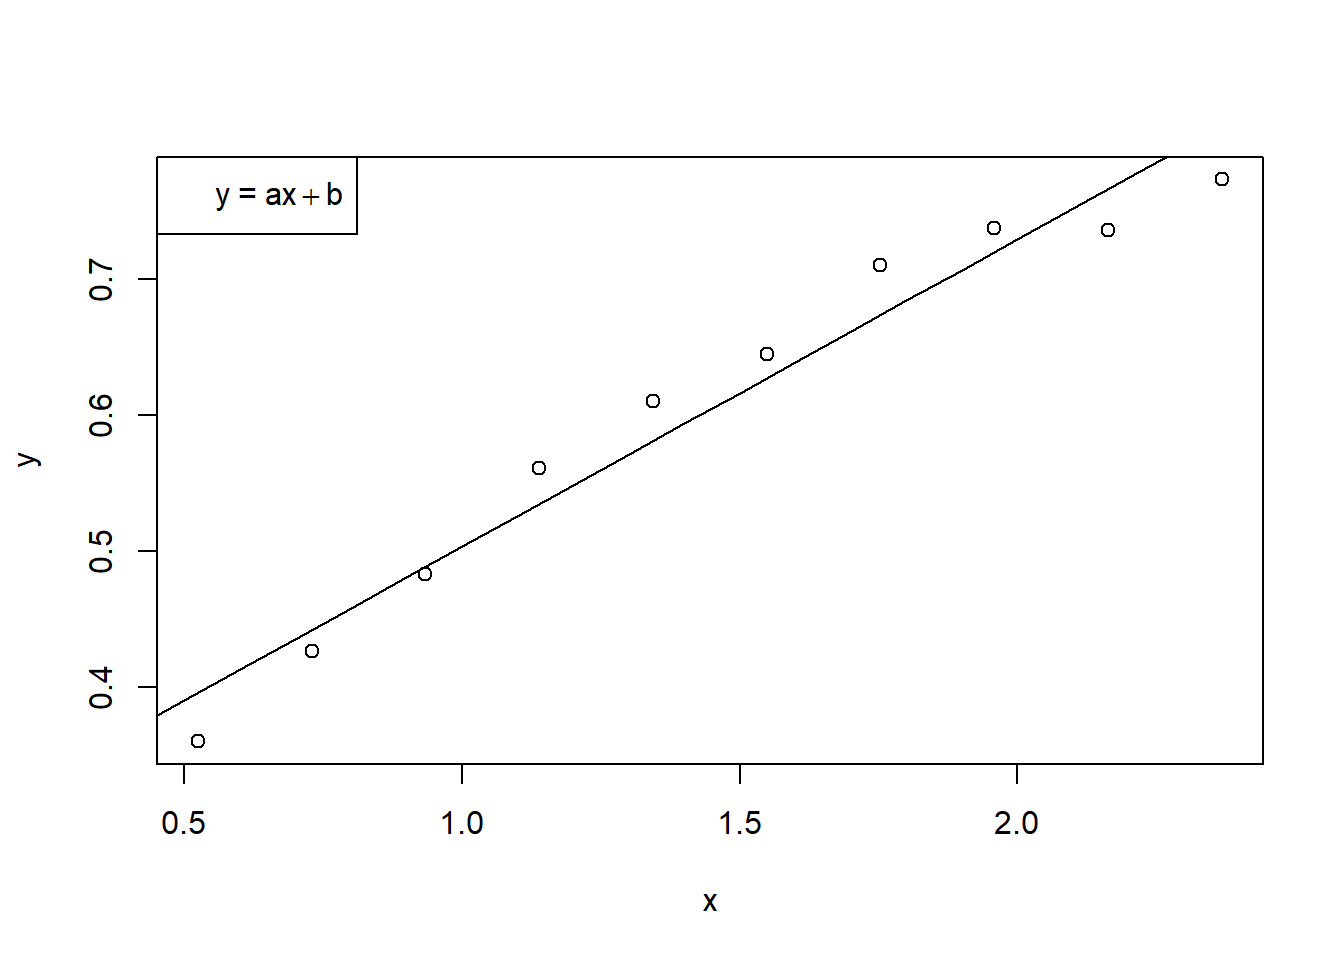
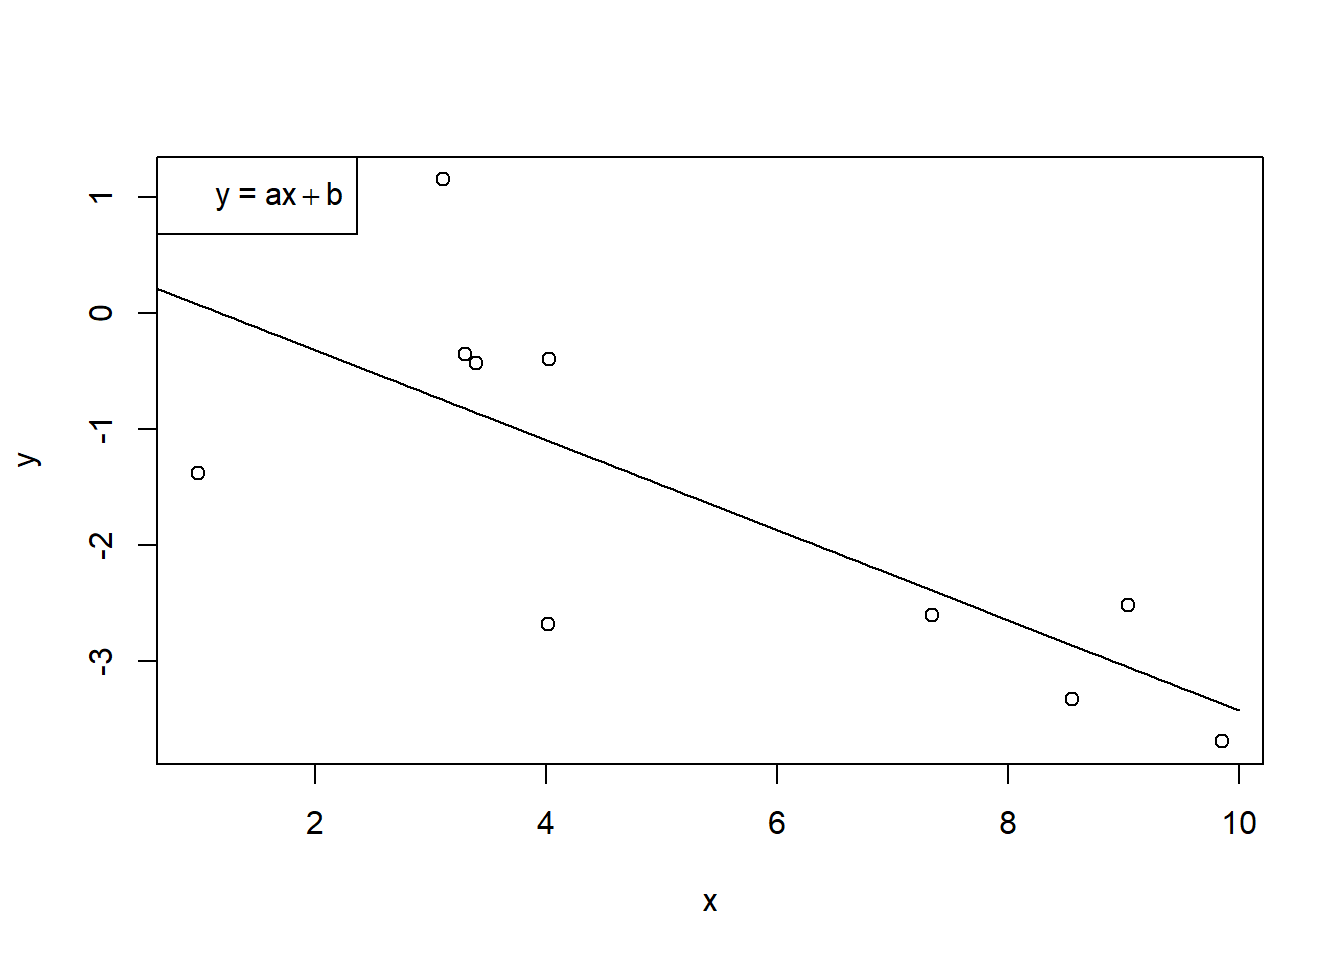
.

diff --git a/term4-lab1/main.html b/term4-lab1/main.html
@@ -98,8 +98,11 @@ pre > code.sourceCode > span > a:first-child::before { text-decoration: underlin
 <p><img src="./Метод%20Гауса.png" title="Figure: Caption for the image" class="img-fluid"><br>
 Figure: Блок-схема алгоритма Метода Гауса</p>
 <div class="cell">
-<div class="sourceCode cell-code" id="cb1"><pre class="sourceCode r code-with-copy"><code class="sourceCode r"><span id="cb1-1"><a href="#cb1-1" aria-hidden="true" tabindex="-1"></a>x <span class="ot">&lt;-</span> <span class="fu">c</span>(<span class="fl">0.525</span>, <span class="fl">0.730</span>, <span class="fl">0.934</span>, <span class="fl">1.139</span>, <span class="fl">1.344</span>, <span class="fl">1.549</span>, <span class="fl">1.753</span>, <span class="fl">1.958</span>, <span class="fl">2.163</span>, <span class="fl">2.368</span>)</span>
-<span id="cb1-2"><a href="#cb1-2" aria-hidden="true" tabindex="-1"></a>y <span class="ot">&lt;-</span> <span class="fu">c</span>(<span class="fl">0.360</span>, <span class="fl">0.426</span>, <span class="fl">0.483</span>, <span class="fl">0.561</span>, <span class="fl">0.610</span>, <span class="fl">0.645</span>, <span class="fl">0.710</span>, <span class="fl">0.737</span>, <span class="fl">0.736</span>, <span class="fl">0.773</span>)</span></code><button title="Copy to Clipboard" class="code-copy-button"><i class="bi"></i></button></pre></div>
+<div class="sourceCode cell-code" id="cb1"><pre class="sourceCode r code-with-copy"><code class="sourceCode r"><span id="cb1-1"><a href="#cb1-1" aria-hidden="true" tabindex="-1"></a><span class="co">#x &lt;- c(0.525, 0.730, 0.934, 1.139, 1.344, 1.549, 1.753, 1.958, 2.163, 2.368)</span></span>
+<span id="cb1-2"><a href="#cb1-2" aria-hidden="true" tabindex="-1"></a><span class="co">#y &lt;- c(0.360, 0.426, 0.483, 0.561, 0.610, 0.645, 0.710, 0.737, 0.736, 0.773)</span></span>
+<span id="cb1-3"><a href="#cb1-3" aria-hidden="true" tabindex="-1"></a></span>
+<span id="cb1-4"><a href="#cb1-4" aria-hidden="true" tabindex="-1"></a>x <span class="ot">&lt;-</span> <span class="fu">c</span>(<span class="fl">4.03</span>, <span class="fl">9.04</span>, <span class="fl">3.30</span>, <span class="fl">3.11</span>, <span class="fl">8.55</span>, <span class="fl">7.34</span>, <span class="fl">0.99</span>, <span class="fl">3.40</span>, <span class="fl">4.02</span>, <span class="fl">9.85</span>)</span>
+<span id="cb1-5"><a href="#cb1-5" aria-hidden="true" tabindex="-1"></a>y <span class="ot">&lt;-</span> <span class="fu">c</span>(<span class="sc">-</span><span class="fl">0.40</span>, <span class="sc">-</span><span class="fl">2.52</span>, <span class="sc">-</span><span class="fl">0.35</span>, <span class="fl">1.15</span>, <span class="sc">-</span><span class="fl">3.33</span>, <span class="sc">-</span><span class="fl">2.60</span>, <span class="sc">-</span><span class="fl">1.38</span>, <span class="sc">-</span><span class="fl">0.43</span>, <span class="sc">-</span><span class="fl">2.68</span>, <span class="sc">-</span><span class="fl">3.69</span>)</span></code><button title="Copy to Clipboard" class="code-copy-button"><i class="bi"></i></button></pre></div>
 </div>
 </section>
 <section id="для-линейной-апроксимирующей-функции" class="level3">
@@ -129,24 +132,24 @@ Call:
 lm(formula = y ~ x)
 
 Residuals:
-      Min        1Q    Median        3Q       Max 
--0.039493 -0.026644  0.005968  0.024204  0.036556 
+    Min      1Q  Median      3Q     Max 
+-1.5780 -0.4346  0.1107  0.5152  1.8990 
 
 Coefficients:
-            Estimate Std. Error t value Pr(&gt;|t|)    
-(Intercept)  0.27710    0.02574   10.77 4.88e-06 ***
-x            0.22610    0.01649   13.71 7.71e-07 ***
+            Estimate Std. Error t value Pr(&gt;|t|)  
+(Intercept)   0.4574     0.7363   0.621   0.5517  
+x            -0.3879     0.1209  -3.210   0.0124 *
 ---
 Signif. codes:  0 '***' 0.001 '**' 0.01 '*' 0.05 '.' 0.1 ' ' 1
 
-Residual standard error: 0.03066 on 8 degrees of freedom
-Multiple R-squared:  0.9592,    Adjusted R-squared:  0.9541 
-F-statistic: 188.1 on 1 and 8 DF,  p-value: 7.708e-07</code></pre>
+Residual standard error: 1.105 on 8 degrees of freedom
+Multiple R-squared:  0.5629,    Adjusted R-squared:  0.5083 
+F-statistic:  10.3 on 1 and 8 DF,  p-value: 0.01243</code></pre>
 </div>
 <div class="sourceCode cell-code" id="cb4"><pre class="sourceCode r code-with-copy"><code class="sourceCode r"><span id="cb4-1"><a href="#cb4-1" aria-hidden="true" tabindex="-1"></a><span class="fu">coef</span>(f1)</span></code><button title="Copy to Clipboard" class="code-copy-button"><i class="bi"></i></button></pre></div>
 <div class="cell-output cell-output-stdout">
 <pre><code>(Intercept)           x 
-  0.2770976   0.2260958 </code></pre>
+  0.4574400  -0.3879247 </code></pre>
 </div>
 </div>
 <section id="решение" class="level4">
@@ -208,7 +211,10 @@ F-statistic: 188.1 on 1 and 8 DF,  p-value: 7.708e-07</code></pre>
 </section>
 <section id="полученные-погрешности" class="level4">
 <h4 class="anchored" data-anchor-id="полученные-погрешности">Полученные погрешности</h4>
-<p><span class="math inline">\(\Delta a = 8.3266727\times 10^{-17} \quad \delta a = 3.6828066\times 10^{-16}\)</span> <span class="math inline">\(\Delta b = 7.2164497\times 10^{-16} \quad \delta b = 2.604299\times 10^{-15}\)</span></p>
+<p><span class="math display">\[
+a = -0.3879247 \quad b = 0.45744
+\]</span></p>
+<p><span class="math inline">\(\Delta a = 1.6653345\times 10^{-16} \quad \delta a = 4.2929328\times 10^{-16}\)</span> <span class="math inline">\(\Delta b = 1.3322676\times 10^{-15} \quad \delta b = 2.9124422\times 10^{-15}\)</span></p>
 <div class="cell">
 <div class="cell-output-display">
 <div id="fig-lin-approx-my" class="quarto-figure quarto-figure-center anchored">
@@ -304,9 +310,9 @@ a_0 \sum_{i=1}^n x^4 + a_1 \sum_{i=1}^n x_i^2 + a_2 \sum_{i=1}^n = x_i^2y_i
 <span id="cb9-43"><a href="#cb9-43" aria-hidden="true" tabindex="-1"></a>as_rel_err <span class="ot">=</span> as_abs_err <span class="sc">/</span> <span class="fu">abs</span>(as_my)</span></code><button title="Copy to Clipboard" class="code-copy-button"><i class="bi"></i></button></pre></div>
 </div>
 <p><span class="math inline">\(\alpha_{точн.} = (0.12, 0.486, -0.09)^T\)</span><br>
-<span class="math inline">\(a_{получ.} = (0.1300611, 0.4696716, -0.084198)^T\)</span></p>
-<p><span class="math inline">\(\Delta a = ( 0.0100611, 0.0163284, 0.005802)^T\)</span><br>
-<span class="math inline">\(\delta a = (0.0773566, 0.0347657, 0.0689086)^T\)</span></p>
+<span class="math inline">\(a_{получ.} = (-0.8692071, 0.2342145, -0.0541419)^T\)</span></p>
+<p><span class="math inline">\(\Delta a = ( 0.9892071, 0.2517855, 0.0358581)^T\)</span><br>
+<span class="math inline">\(\delta a = (1.1380569, 1.0750211, 0.6622996)^T\)</span></p>
 <div class="cell">
 <div class="cell-output-display">
 <div id="fig-square-approx-my" class="quarto-figure quarto-figure-center anchored">
